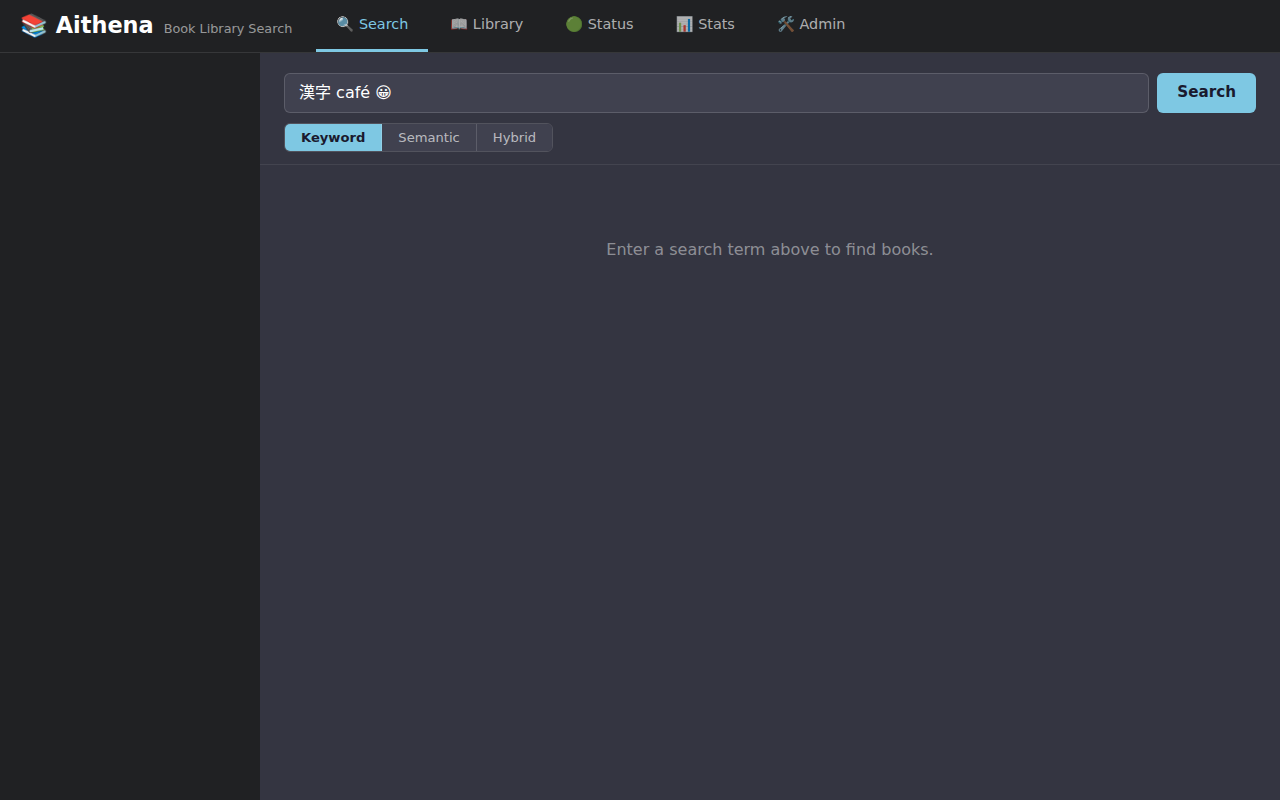
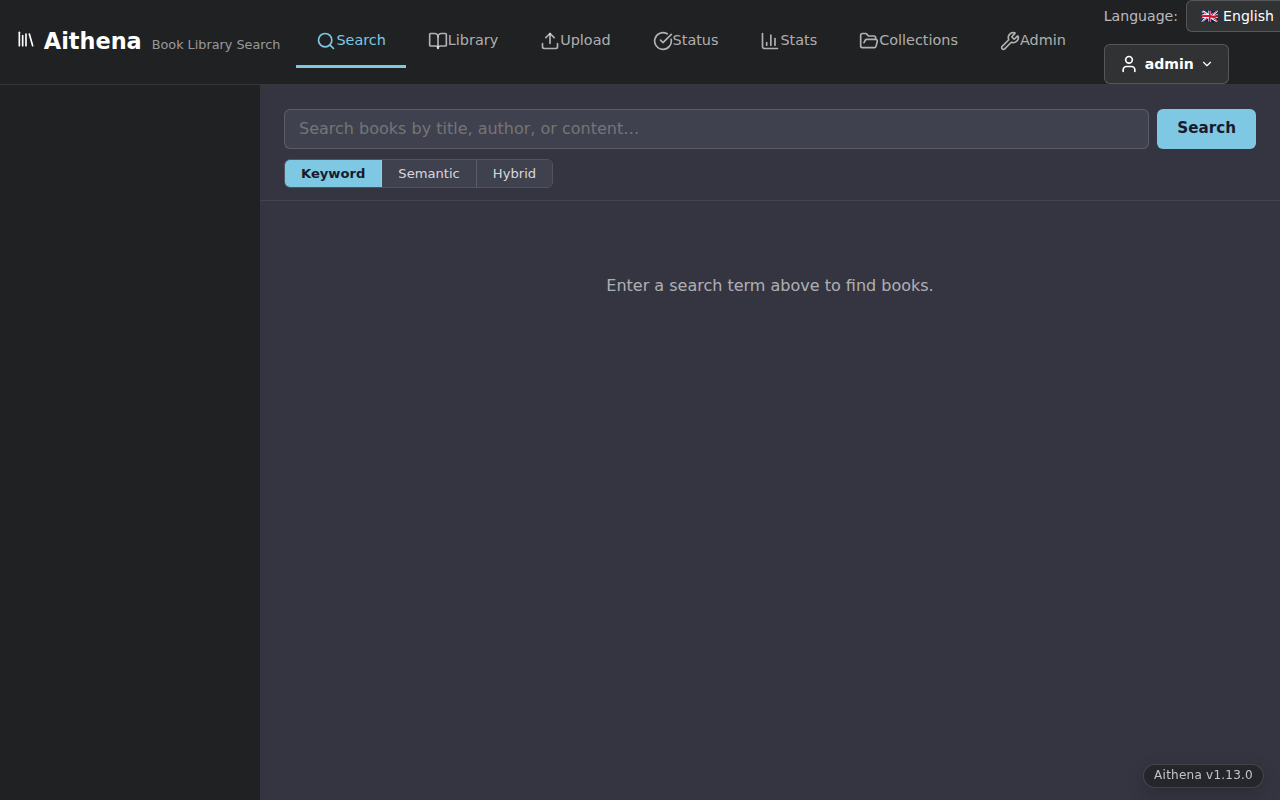
docs: add missing screenshots and refresh existing ones (#1252)
- Add 4 new screenshots: login-page, upload-page, admin-dashboard, collections-page
- Refresh 3 existing screenshots: search-page, status-tab, tab-navigation
- Fix similar-books.png broken reference (commented out with TODO until data available)
- All 10 image references in user-manual.md now resolve to existing files
- Admin-manual.md references also verified (admin-dashboard.png was missing, now added)

Changed region(s): [[0.0, 0.0, 1.0, 0.25], [0.4688, 0.2812, 0.7188, 0.375], [0.875, 0.0, 1.0, 0.0312]]

diff --git a/docs/user-manual.md b/docs/user-manual.md
@@ -363,9 +363,7 @@ The **Similar Books** panel helps you discover related documents. You can access
 
 Click any similar-book card to navigate to that book's detail view or to replace the currently selected PDF with that recommendation. This makes it easy to explore related titles without starting a new search from scratch.
 
-![Similar Books recommendations](images/similar-books.png)
-
-<!-- TODO: capture screenshot -->
+<!-- TODO: capture similar-books.png screenshot when library has indexed data -->
 
 ## Book Detail View (v1.11.0+)
 
